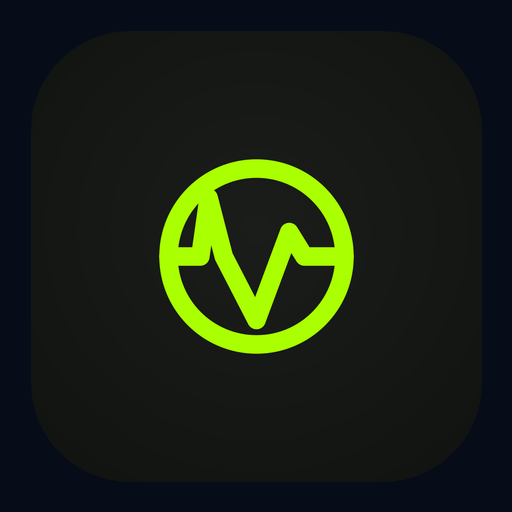
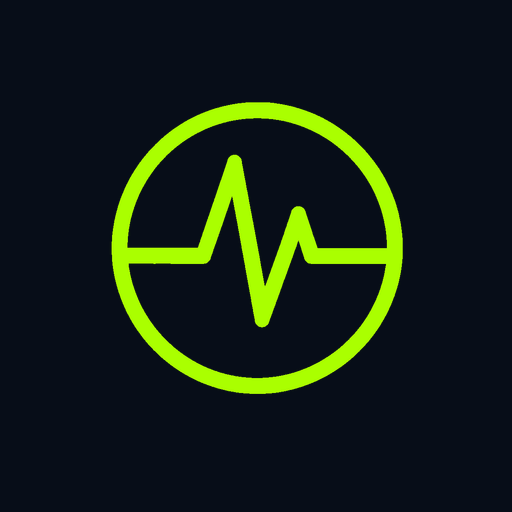
최근

Changed region(s): [[0.2188, 0.1875, 0.8125, 0.7812]]

diff --git a/app/layout.tsx b/app/layout.tsx
@@ -161,13 +161,13 @@ export const metadata: Metadata = {
   },
   icons: {
     icon: [
-      { url: '/icons/icon-32.png?v=18', sizes: '32x32', type: 'image/png' },
-      { url: '/favicon.ico?v=18', sizes: '48x48' },
-      { url: '/icons/icon-192.png?v=18', sizes: '192x192', type: 'image/png' },
-      { url: '/icons/icon-512.png?v=18', sizes: '512x512', type: 'image/png' },
+      { url: '/icons/icon-32.png?v=21', sizes: '32x32', type: 'image/png' },
+      { url: '/favicon.ico?v=21', sizes: '48x48' },
+      { url: '/icons/icon-192.png?v=21', sizes: '192x192', type: 'image/png' },
+      { url: '/icons/icon-512.png?v=21', sizes: '512x512', type: 'image/png' },
     ],
     apple: [
-      { url: '/icons/apple-icon.png?v=18', sizes: '180x180', type: 'image/png' },
+      { url: '/icons/apple-icon.png?v=21', sizes: '180x180', type: 'image/png' },
     ],
   },
 }
@@ -189,8 +189,9 @@ export default function RootLayout({
   return (
     <html
       lang="ko"
+      translate="no"
       suppressHydrationWarning
-      className={`dark bg-[#070d18] ${portalFontVariables}`}
+      className={`dark notranslate bg-[#070d18] ${portalFontVariables}`}
     >
       <head>
         <PwaSplashHeadLinks />
@@ -212,15 +213,18 @@ export default function RootLayout({
       <body
         className={`${geistSans.className} antialiased bg-[#070d18] text-foreground min-h-screen`}
       >
-        <SplashInlineBoot />
-        <OnestepSplashLayer />
-        <PwaBootstrap />
-        <PwaInstallAffordance />
-        <StandaloneHardNav />
-        <div id="app-root" className="onestep-app-root">
-          {children}
-          <Toaster richColors position="top-center" />
-          {process.env.NODE_ENV === 'production' && <Analytics />}
+        {/* body 직속 형제를 하나로 — 라우트 전환 시 insertBefore/removeChild 깨짐 방지 */}
+        <div id="app-shell" className="min-h-screen">
+          <SplashInlineBoot />
+          <OnestepSplashLayer />
+          <PwaBootstrap />
+          <PwaInstallAffordance />
+          <StandaloneHardNav />
+          <div id="app-root" className="onestep-app-root">
+            {children}
+            <Toaster richColors position="top-center" theme="dark" />
+            {process.env.NODE_ENV === 'production' && <Analytics />}
+          </div>
         </div>
       </body>
     </html>

diff --git a/lib/brand-pulse-svg.ts b/lib/brand-pulse-svg.ts
@@ -11,8 +11,8 @@ export const BRAND_PULSE_APP_BG_OUTER = '#101310' as const
 export const BRAND_PULSE_APP_SYMBOL_SCALE = 0.52
 
 /** Top & bottom arcs — pulse line completes the horizontal diameter */
-export const BRAND_PULSE_ARC_TOP = 'M3 12A9 9 0 011 21 12' as const
-export const BRAND_PULSE_ARC_BOTTOM = 'M3 12A9 9 0 001 21 12' as const
+export const BRAND_PULSE_ARC_TOP = 'M3 12A9 9 0 0 1 21 12' as const
+export const BRAND_PULSE_ARC_BOTTOM = 'M3 12A9 9 0 0 0 21 12' as const
 
 /** Reference app-icon silhouette — edge-to-edge at 9↔3 o'clock */
 export const BRAND_PULSE_LINE =

diff --git a/components/brand/brand-pulse-mark.tsx b/components/brand/brand-pulse-mark.tsx
@@ -1,7 +1,7 @@
 import Image from 'next/image'
 import { cn } from '@/lib/utils'
 
-export const BRAND_PULSE_ICON_SRC = '/brand-pulse-icon.png?v=18'
+export const BRAND_PULSE_ICON_SRC = '/brand-pulse-icon.png?v=21'
 
 const GLOW_CLASS =
   'drop-shadow-[0_0_10px_rgba(170,255,0,0.9)] drop-shadow-[0_0_22px_rgba(170,255,0,0.55)] drop-shadow-[0_0_40px_rgba(170,255,0,0.28)]'

diff --git a/lib/pwa-splash-links.ts b/lib/pwa-splash-links.ts
@@ -1,6 +1,6 @@
 /** iOS PWA — 픽셀 크기·media 쿼리가 정확해야 기본 스플래시 대신 커스텀 이미지 사용 */
 /** 홈화면 설치 앱 스플래시/아이콘 캐시 갱신용 — 올릴 때마다 재설치 유도 */
-export const PWA_ASSET_VERSION = 20
+export const PWA_ASSET_VERSION = 21
 
 export const IOS_PWA_SPLASH_SCREENS = [
   {
